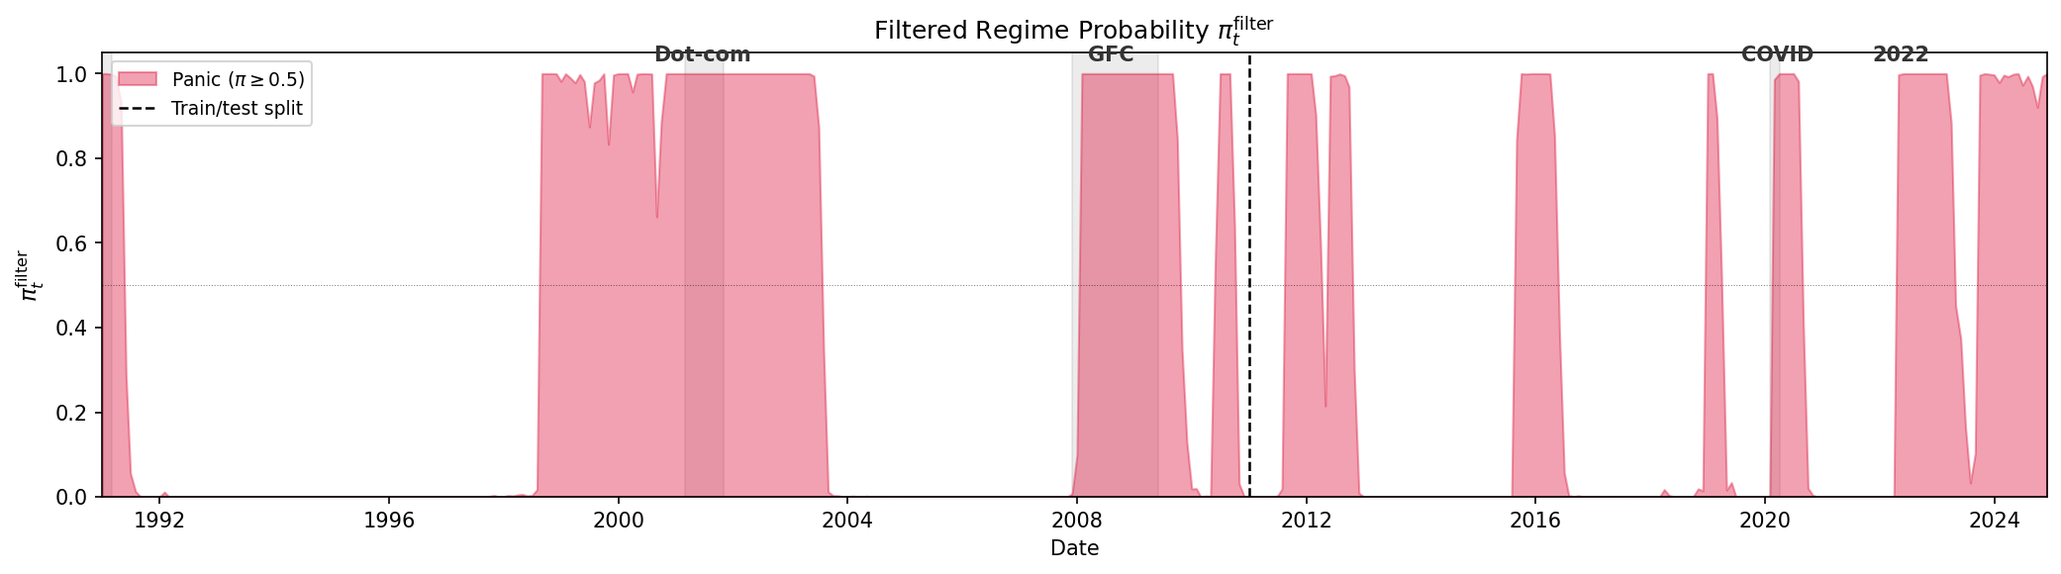
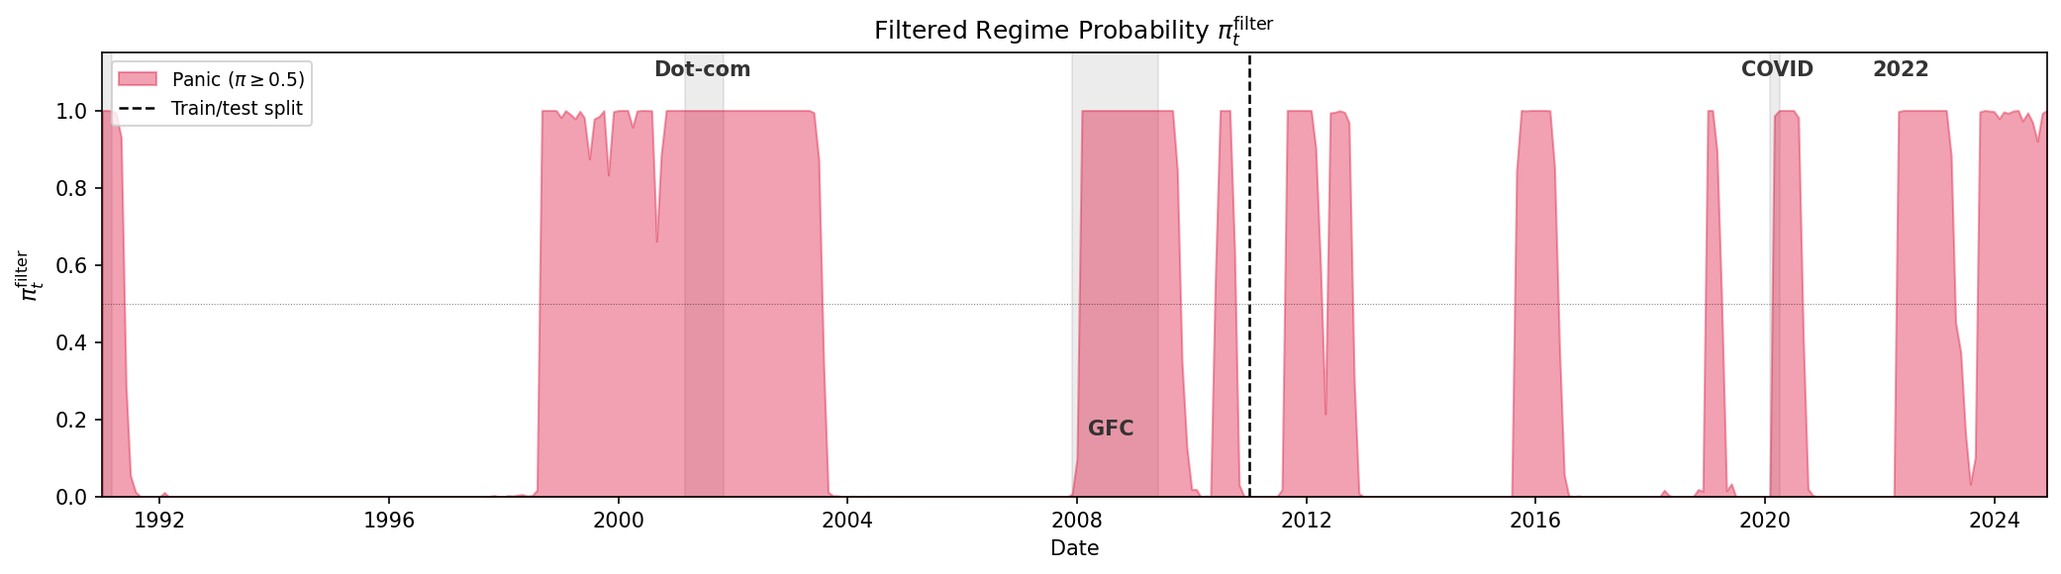
Clean up methodology (remove fundamentals refs, fix equations), reorganize data section, add predictive regime to future work

diff --git a/latex/methodology.tex b/latex/methodology.tex
@@ -3,7 +3,7 @@
 
 The two-stage empirical framework underlying the analysis is developed as follows. The first stage estimates market regimes using a Bayesian Hidden Markov Model (Section~\ref{sec:stage1}). A two-state HMM is fit to four macrofinancial stress indicators via Gibbs sampling, producing a monthly filtered probability $\pi_t^{\text{filter}}$ that quantifies how likely the market is to be in a panic state. Because this probability conditions only on information available at time $t$, it is a real-time signal with no look-ahead bias.
 
-The second stage uses this regime signal to guide cross-sectional stock selection (Section~\ref{sec:stage2}). Three portfolio construction methods of increasing complexity serve distinct analytical roles. The deterministic formula (Method~0) tests whether simply varying the momentum lookback horizon with market conditions adds value. The logistic regression (Method~1) tests whether a linear model can exploit the regime signal alongside momentum and fundamentals. XGBoost (Method~2) tests whether nonlinear interactions between the regime signal and other features matter. Comparing M1 and M2 is the key diagnostic: if the regime signal functions as a context variable rather than a direct return predictor, a linear model should be unable to use it, while a tree-based model should find it important.
+The second stage uses this regime signal to guide cross-sectional stock selection (Section~\ref{sec:stage2}). Three portfolio construction methods of increasing complexity serve distinct analytical roles. The deterministic formula (Method~0) tests whether simply varying the momentum lookback horizon with market conditions adds value. The logistic regression (Method~1) tests whether a linear model can exploit the regime signal alongside momentum. XGBoost (Method~2) tests whether nonlinear interactions between the regime signal and other features matter. Comparing M1 and M2 is the key diagnostic: if the regime signal functions as a context variable rather than a direct return predictor, a linear model should be unable to use it, while a tree-based model should find it important.
 
 \subsection{Stage 1: Regime Classification via Hidden Markov Model}\label{sec:stage1}
 
@@ -156,7 +156,7 @@ For example, if the forward filter assigns high probability to calm at time $t$ 
 
 The output of the full FFBS procedure is one draw from the posterior over state paths. Across Gibbs iterations, different paths are sampled, exploring the full posterior uncertainty.
 
-Importantly, the backward pass is used only during training (the Gibbs sampler on 1990--2010 data) to improve posterior parameter estimates. The trading signal $\pi_t^{\text{filter}}$ relies solely on the causal forward filter.
+Importantly, the backward pass is used only during training to improve posterior parameter estimates. The trading signal $\pi_t^{\text{filter}}$ relies solely on the causal forward filter.
 
 \paragraph{Step 2: Updating the emission parameters}
 
@@ -188,7 +188,7 @@ With all three blocks updated, the sampler returns to Step~1. After sufficient i
 
 \subsubsection{Implementation and Convergence}\label{sec:implementation}
 
-The Gibbs sampler is estimated on the training sample only (1990--2010). To reduce sensitivity to MCMC initialization, the full sampler is run independently with $N_s = 200$ different random seeds. Each chain is run for $M=2{,}000$ iterations with the initialization described above. The first $B=500$ iterations are discarded as burn-in, leaving $1{,}500$ posterior draws per seed.
+The Gibbs sampler is estimated on the training sample only. To reduce sensitivity to MCMC initialization, the full sampler is run independently with $N_s = 200$ different random seeds. Each chain is run for $M=2{,}000$ iterations with the initialization described above. The first $B=500$ iterations are discarded as burn-in, leaving $1{,}500$ posterior draws per seed.
 
 For each seed, posterior mean parameters $\bar{\boldsymbol{\mu}}_k$, $\bar{\boldsymbol{\Sigma}}_k$, and $\bar{\mathbf{P}}$ are computed by averaging over the post-burn-in draws. A causal forward filter is then applied to the full sample using these parameters to obtain a seed-specific filtered probability $\pi_t^{\text{filter},(s)}$. The final trading signal is the average across seeds:
 \begin{equation}
@@ -240,39 +240,34 @@ A value near $0$ indicates high confidence in calm, near $1$ indicates panic, an
 
 \subsection{Stage 2: Regime-Conditioned Portfolio Construction}\label{sec:stage2}
 
-The filtered regime probability $\pi_t^{\text{filter}}$ from Stage~1 provides a monthly measure of market stress, but on its own it does not select stocks. This stage translates the regime signal into cross-sectional portfolios. Three cross-sectional stock selection methods of increasing complexity are developed: a deterministic regime-adaptive momentum formula (Method~0), a logistic regression classifier (Method~1), and an XGBoost gradient-boosted tree regressor (Method~2). Each method combines $\pi_t^{\text{filter}}$ with momentum signals at multiple horizons to produce a monthly score for every stock, which is then used to rank stocks into a long-short portfolio: the top decile (using NYSE breakpoints) forms the long leg, the bottom decile forms the short leg, and both legs are value-weighted. A full description of the features used, including their construction and sources, is provided in Section~\ref{sec:data}.
+The filtered regime probability $\pi_t^{\text{filter}}$ from Stage~1 provides a monthly measure of market stress, but on its own it does not select stocks. This stage translates the regime signal into cross-sectional portfolios. Three cross-sectional stock selection methods of increasing complexity are developed: a deterministic regime-adaptive momentum formula (Method~0), a logistic regression classifier (Method~1), and an XGBoost gradient-boosted tree regressor (Method~2). Each method combines $\pi_t^{\text{filter}}$ with momentum signals at multiple horizons to produce a monthly score for every stock, which is then used to rank stocks into a long-short portfolio: the top decile (using NYSE breakpoints) forms the long leg, the bottom decile forms the short leg, and both legs are value-weighted. The stock-level inputs (momentum horizons and the regime signal) are described in Section~\ref{sec:data}.
 
-The deterministic formula serves as a transparent baseline that tests whether simply varying the momentum lookback horizon with market conditions adds value. The two machine learning methods go further by jointly learning how all features (momentum at multiple horizons, fundamentals, and the regime signal) interact to predict forward returns. Long-short construction is the standard in the momentum literature \citep{JegadeeshTitman1993, DanielMoskowitz2016, BarrosoSantaClara2015} because it isolates momentum's cross-sectional stock selection from market beta, providing a cleaner test of whether the strategy can distinguish future winners from losers. The results that follow (Section~\ref{sec:results}) not only compare the out-of-sample performance of the three portfolios but also use SHAP values and coefficient analysis to examine \emph{which} features drive the predictions and \emph{how} their importance shifts across calm and panic regimes. This feature-level analysis provides economic insight into the signals that distinguish regime-conditioned stock selection from standard momentum.
+The deterministic formula serves as a transparent baseline that tests whether simply varying the momentum lookback horizon with market conditions adds value. The two machine learning methods go further by jointly learning how momentum at multiple horizons and the regime signal interact to predict forward returns. Long-short construction is the standard in the momentum literature \citep{JegadeeshTitman1993, DanielMoskowitz2016, BarrosoSantaClara2015} because it isolates momentum's cross-sectional stock selection from market beta, providing a cleaner test of whether the strategy can distinguish future winners from losers. The results that follow (Section~\ref{sec:results}) not only compare the out-of-sample performance of the three portfolios but also use SHAP values and coefficient analysis to examine \emph{which} features drive the predictions and \emph{how} their importance shifts across calm and panic regimes. This feature-level analysis provides economic insight into the signals that distinguish regime-conditioned stock selection from standard momentum.
 
 \subsubsection{Cross-Sectional Stock Selection Methods}\label{sec:methods}
 
-All three methods are trained on the pre-2011 sample and evaluated out-of-sample on 2011--2025.
-
 \paragraph{Method 0: Deterministic Regime-Adaptive Formula}\label{sec:method0}
 
-The simplest approach exploits the economic intuition that the optimal momentum lookback horizon varies with market conditions. The lookback horizon is determined by:
-\begin{equation}
-    \ell_t = \text{clip}\!\left(\text{round}(12 - 11 \cdot \pi_t^{\text{filter}}), \; 1, \; 12\right),
-\end{equation}
-and each stock's score is simply its momentum return at the selected horizon:
-\begin{equation}
-    score_t^s = mom_{\ell_t, t}^s.
-\end{equation}
+The simplest approach exploits the economic intuition that the optimal momentum lookback horizon varies with market conditions. The lookback horizon and stock score are:
+\begin{align}
+    \ell_t &= \text{clip}\!\left(\text{round}(12 - 11 \cdot \pi_t^{\text{filter}}), \; 1, \; 12\right), \\
+    \text{score}_{t}^{\,s} &= \prod_{j=1}^{\ell_t}(1 + r_{t-j}^s) - 1.
+\end{align}
 Stocks are then ranked by this score; the top decile forms the long leg and the bottom decile the short leg, as described in Appendix~\ref{app:portfolio_construction}.
 
-When $\pi_t^{\text{filter}} \approx 0$ (calm), $\ell_t = 12$, recovering the standard 12-month momentum signal that captures continuation in trending markets. When $\pi_t^{\text{filter}} \approx 1$ (panic), $\ell_t = 1$, switching to 1-month reversal to exploit the tendency of oversold stocks to snap back after panic selling. At intermediate values, the lookback smoothly interpolates between these extremes.
+When $\pi_t^{\text{filter}} \approx 0$ (calm), $\ell_t = 12$, recovering the standard 12-month momentum signal that captures continuation in trending markets \citep{JegadeeshTitman1993}. When $\pi_t^{\text{filter}} \approx 1$ (panic), $\ell_t = 1$, switching to 1-month reversal to exploit the tendency of oversold stocks to snap back after panic selling \citep{GHM2023}. At intermediate values, the lookback smoothly interpolates between these extremes.
 
 \paragraph{Method 1: Logistic Regression}\label{sec:method1}
 
-A logistic regression classifier is trained to predict whether a stock's forward return exceeds the cross-sectional median in each month. Classification is chosen over direct return regression because monthly stock returns are extremely noisy, and predicting the binary outcome ``above or below median'' is a more stable learning target that still produces a useful ranking of stocks.\footnote{The logistic sigmoid function $\sigma(z) = 1/(1 + e^{-z})$ maps the linear combination $\boldsymbol{\beta}^\top \tilde{\mathbf{x}}$ from the real line to the interval $(0, 1)$, so the output can be interpreted as a probability.}
+A logistic regression classifier is trained to predict whether a stock's forward return exceeds the cross-sectional median in each month. Classification is chosen over direct return regression because monthly stock returns are extremely noisy, and predicting the binary outcome ``above or below median'' is a more stable learning target that still produces a useful ranking of stocks \citep[see][for a discussion of classification vs.\ regression targets in asset pricing]{Gu2020}.\footnote{The logistic sigmoid function $\sigma(z) = 1/(1 + e^{-z})$ maps the linear combination $\boldsymbol{\beta}^\top \tilde{\mathbf{x}}$ from the real line to the interval $(0, 1)$, so the output can be interpreted as a probability.}
 \begin{equation}
     P(y_t^s = 1 \mid \mathbf{x}_t^s) = \sigma(\boldsymbol{\beta}^\top \tilde{\mathbf{x}}_t^s),
 \end{equation}
-where $y_t^s = \mathds{1}(r_{t+1}^s > \text{median}_s\{r_{t+1}^s\})$ is a binary label indicating whether stock $s$ outperforms the cross-sectional median in the following month. The feature vector $\tilde{\mathbf{x}}_t^s$ is standardized using training-set means and standard deviations, with missing fundamental values imputed at the training-set median. The model is estimated by maximizing the $\ell_2$-regularized log-likelihood:
+where $y_t^s = \mathds{1}(r_{t+1}^s > \text{median}_s\{r_{t+1}^s\})$ is a binary label indicating whether stock $s$ outperforms the cross-sectional median in the following month. The feature vector $\tilde{\mathbf{x}}_t^s = (mom_{1,t}^s, \dots, mom_{12,t}^s, \pi_t^{\text{filter}})$ contains the 12 momentum lookbacks and the regime signal, standardized using training-set means and standard deviations. The model is estimated by maximizing the $\ell_2$-regularized log-likelihood:
 \begin{equation}
     \hat{\boldsymbol{\beta}} = \arg\max_{\boldsymbol{\beta}} \left[\sum_{i} \Big(y_i \log \sigma(\boldsymbol{\beta}^\top \tilde{\mathbf{x}}_i) + (1 - y_i) \log(1 - \sigma(\boldsymbol{\beta}^\top \tilde{\mathbf{x}}_i))\Big) - \frac{1}{2C} \|\boldsymbol{\beta}\|_2^2\right],
 \end{equation}
-with regularization strength $C = 1.0$ (the scikit-learn default). The $\ell_2$ penalty shrinks coefficients toward zero to guard against overfitting given the large number of correlated momentum features; the default value was retained because preliminary experiments showed that performance was insensitive to moderate changes in $C$. Once $\hat{\boldsymbol{\beta}}$ is estimated on the training sample, the stock score for any observation is obtained by plugging $\hat{\boldsymbol{\beta}}$ back into the prediction equation:
+with regularization strength $C = 1.0$. The $\ell_2$ penalty shrinks coefficients toward zero to guard against overfitting given the large number of correlated momentum features. Once $\hat{\boldsymbol{\beta}}$ is estimated on the training sample, the stock score for any observation is obtained by plugging $\hat{\boldsymbol{\beta}}$ back into the prediction equation:
 \begin{equation}
     score_t^s = \sigma(\hat{\boldsymbol{\beta}}^\top \tilde{\mathbf{x}}_t^s) = P(y_t^s = 1 \mid \mathbf{x}_t^s;\, \hat{\boldsymbol{\beta}}).
 \end{equation}
@@ -280,7 +275,7 @@ Stocks with higher predicted probability of beating the cross-sectional median r
 
 \paragraph{Method 2: XGBoost Regressor}\label{sec:method2}
 
-An XGBoost gradient-boosted tree regressor \citep{Chen2016} is trained to predict the forward monthly return directly. Unlike Method~1, regression rather than classification is used here because XGBoost's nonlinear tree structure is flexible enough to learn from noisy continuous returns, and predicting returns directly preserves magnitude information -- the model can distinguish a stock expected to gain 10\% from one expected to gain 2\%, whereas classification discards this signal. The feature vector for each stock-month observation comprises the 13 features described in Section~\ref{sec:cs_features}: the 12 momentum lookbacks ($mom_1, \dots, mom_{12}$) and the regime signal ($\pi_t^{\text{filter}}$). By including all horizons jointly, XGBoost can learn which momentum horizons matter most in each regime. For example, it may rely on long-horizon momentum when $\pi_t^{\text{filter}}$ is low but shift toward short-term reversal when $\pi_t^{\text{filter}}$ is high.
+An XGBoost gradient-boosted tree regressor \citep{Chen2016} is trained to predict the forward monthly return directly. Unlike Method~1, which classifies stocks as above or below the median, XGBoost predicts the forward return directly. This preserves magnitude information: a stock expected to gain 10\% ranks higher than one expected to gain 2\%, a distinction that binary classification discards. The feature vector for each stock-month observation comprises the 13 features described in Section~\ref{sec:cs_features}: the 12 momentum lookbacks ($mom_1, \dots, mom_{12}$) and the regime signal ($\pi_t^{\text{filter}}$). By including all horizons jointly, XGBoost can learn which momentum horizons matter most in each regime. For example, it may rely on long-horizon momentum when $\pi_t^{\text{filter}}$ is low but shift toward short-term reversal when $\pi_t^{\text{filter}}$ is high.
 
 XGBoost builds an additive ensemble of $M$ regression trees, where each successive tree fits the residuals of the current ensemble:
 \begin{equation}
@@ -288,7 +283,7 @@ XGBoost builds an additive ensemble of $M$ regression trees, where each successi
 \end{equation}
 where $h_m$ is the $m$-th decision tree and $\eta$ is the learning rate that shrinks each tree's contribution to prevent overfitting. Each tree $h_m$ is grown to minimize a regularized objective combining the squared-error loss on the current residuals with penalty terms on tree complexity (number of leaves and leaf weights). The predicted return $\hat{r}_{t+1}^s = F(\mathbf{x}_t^s)$ serves as the stock score. The model is trained with $M = 500$ trees, a learning rate of $\eta = 0.05$, maximum tree depth of 4, and row and column subsampling rates of 0.8. To reduce sensitivity to random initialization, an ensemble of 50 independent XGBoost models (each with a different random seed) is trained; their predictions are averaged before ranking stocks into portfolio deciles.
 
-Row and column subsampling introduce stochasticity into each boosting round, reducing variance and improving generalization. A maximum depth of 4 allows the model to capture pairwise and higher-order interactions. Critically, this means XGBoost can learn splits that condition on $\pi_t^{\text{filter}}$ and then branch on momentum horizons differently within each regime, without requiring explicit interaction terms. XGBoost also natively handles missing values in the fundamental features by learning optimal split directions for missing entries during training, eliminating the need for imputation.
+A maximum depth of 4 allows the model to capture pairwise and higher-order interactions. Critically, this means XGBoost can learn splits that condition on $\pi_t^{\text{filter}}$ and then branch on momentum horizons differently within each regime, without requiring explicit interaction terms.
 
 \paragraph{The Role of $\pi_t^{\text{filter}}$}\label{sec:pi_context}
 

diff --git a/latex/data_section.tex b/latex/data_section.tex
@@ -25,7 +25,7 @@ Market-level months & 252 & 167 & 419 \\
 
 \subsection{HMM Feature Selection}\label{sec:feature_selection}
 
-The regime signal's ability to capture the rotation in momentum's cross-sectional structure depends critically on which stress indicators the HMM observes. The selection problem has two constraints. First, market drawdown (DD) must be included: it is the most economically direct measure of the mechanism identified by \citet{DanielMoskowitz2016} -- momentum crashes follow market declines -- and consistently emerges as the dominant regime-identifying feature. Second, the number of features is capped at four. With 241 training months split roughly 150/90 between calm and panic regimes, each regime has sufficient observations to estimate a 4-dimensional mean vector and covariance matrix (10 free covariance parameters per state). Increasing beyond four features risks estimation instability.
+The regime signal's ability to capture the shift in momentum's cross-sectional structure depends critically on which stress indicators the HMM observes. The selection problem has two constraints. First, market drawdown (DD) must be included: it is the most economically direct measure of the mechanism identified by \citet{DanielMoskowitz2016} -- momentum crashes follow market declines -- and consistently emerges as the dominant regime-identifying feature. Second, the number of features is capped at four. With 241 training months split roughly 150/90 between calm and panic regimes, each regime has sufficient observations to estimate a 4-dimensional mean vector and covariance matrix (10 free covariance parameters per state). Increasing beyond four features risks estimation instability.
 
 \paragraph{Candidate pool}
 Nine monthly macrofinancial indicators, all available from 1990 onward, are considered:
@@ -36,13 +36,13 @@ Nine monthly macrofinancial indicators, all available from 1990 onward, are cons
 All candidates are observable in real time at the end of each month and standardised to $z$-scores using training-period statistics.
 
 \paragraph{How we selected}
-The selection proceeds through three passes of increasing rigour. In the first pass (\emph{quality screen}), each of the 93 DD-inclusive combinations is estimated with a single Gibbs sampler seed, and combinations are eliminated if the HMM fails basic sanity checks: the two states must separate meaningfully, and the model must correctly classify known crises (the dot-com bust, the GFC, and COVID) as panic while keeping non-crisis periods calm.\footnote{Specific thresholds: ESS $> 50$, regime separation significant for at least $\min(2,D)$ features, average $\pi_t^{\text{filter}} > 0.5$ during GFC and COVID, $< 0.4$ during 2003--2006 and 2013--2019, $> 0.3$ during the dot-com crash.}
+The selection proceeds through three passes of increasing rigour. In the first pass (\emph{quality screen}), all DD-inclusive combinations of up to four features are considered. With 8 remaining candidates, this gives $\binom{8}{0} + \binom{8}{1} + \binom{8}{2} + \binom{8}{3} = 1 + 8 + 28 + 56 = 93$ combinations (DD alone, DD paired with one other, DD with two others, DD with three others). Each is estimated with a single Gibbs sampler seed, and combinations are eliminated if the HMM fails basic sanity checks: the two states must separate meaningfully, and the model must correctly classify known crises (the dot-com bust, the GFC, and COVID) as panic while keeping non-crisis periods calm.\footnote{Specific thresholds: ESS $> 50$, regime separation significant for at least $\min(2,D)$ features, average $\pi_t^{\text{filter}} > 0.5$ during GFC and COVID, $< 0.4$ during 2003--2006 and 2013--2019, $> 0.3$ during the dot-com crash.}
 
 In the second pass (\emph{portfolio ranking}), surviving combinations are evaluated through the full cross-sectional pipeline: HMM to XGBoost to long-short portfolio. This answers the question that matters most -- does a better regime signal translate into better stock selection? Combinations are ranked by out-of-sample Sharpe ratio. The top 10 advance.
 
 In the third pass (\emph{stability validation}), the finalists are tested for robustness across random seed partitions. A combination that achieves a high Sharpe on one lucky seed combination but collapses on another is unreliable. We run 20 independent experiments with different seed draws and classify combinations as stable ($\sigma < 0.10$), moderate ($0.10 \leq \sigma < 0.15$), or unstable ($\sigma \geq 0.15$).
 
-\paragraph{What we selected and why}
+\paragraph{Selected features}
 The four-feature combination DD+DISP+REL\_N+CS is selected as the most stable. With the production configuration (200 HMM seeds), it achieves a long-short Sharpe of 1.08 ($\sigma = 0.08$ across independent seed partitions; Section~\ref{sec:results}).
 
 \input{tables/table_feature_selection}
@@ -51,20 +51,7 @@ Table~\ref{tab:hmm_feature_ablation} confirms the individual contribution of eac
 
 \input{tables/table_hmm_feature_ablation}
 
-The convergence diagnostics described in Section~\ref{sec:convergence} confirm that the Gibbs sampler with the selected features is well-behaved. All posterior parameters exceed an ESS of 100, indicating efficient mixing, and the Gelman--Rubin $\hat{R}$ statistic is below 1.01 for every parameter across five independent chains (Appendix~\ref{app:gelman_rubin}).
-
-Figure~\ref{fig:regime_probabilities} plots the resulting filtered regime probability over the full sample. The signal correctly identifies all major stress episodes while remaining near zero during calm expansions.
-
-\begin{figure}[H]
-    \centering
-    \includegraphics[width=\textwidth]{regime_probabilities.png}
-    \caption{Filtered regime probability $\pi_t^{\text{filter}}$ (1990--2025). The dashed vertical line marks the train/test split (January 2011). Shaded regions indicate months where $\pi_t^{\text{filter}} \geq 0.5$ (panic classification).}
-    \label{fig:regime_probabilities}
-\end{figure}
-
-Table~\ref{tab:hmm_separation} confirms that the two regimes are meaningfully distinct: all four features exhibit statistically significant separation between calm and panic, with 95\% posterior credible intervals excluding zero. The largest separations are observed for DD and REL\_N, consistent with their dominant roles in the ablation analysis (Section~\ref{sec:ablation_results}).
-
-\input{tables/table_hmm_separation}
+The convergence diagnostics described in Section~\ref{sec:convergence} confirm that the Gibbs sampler with the selected features has converged. All posterior parameters exceed an ESS of 100, meaning the post-burn-in draws contain at least 100 effectively independent samples per parameter. The Gelman--Rubin $\hat{R}$ statistic is below 1.01 for every parameter across five independent chains (Appendix~\ref{app:gelman_rubin}), indicating that chains started from different initializations have converged to the same posterior distribution.
 
 Each feature captures a distinct dimension of market stress:
 \begin{enumerate}
@@ -78,7 +65,7 @@ Each feature captures a distinct dimension of market stress:
     \begin{equation}
         DISP_t = \log\!\left(\text{std}_s(r_{s,t})\right).
     \end{equation}
-    DISP captures cross-sectional \emph{disagreement} among stocks. During stress, consensus breaks down and dispersion spikes, signalling changes in the correlation structure that affect momentum profits.
+    DISP captures cross-sectional \emph{disagreement} among stocks. During stress, individual stocks move in different directions rather than together, causing dispersion to spike.
 
     \item \textbf{REL\_N (Relative Market Participation):} The log ratio of the number of actively traded stocks to its trailing 12-month average:
     \begin{equation}
@@ -93,7 +80,7 @@ Each feature captures a distinct dimension of market stress:
     The credit spread provides an independent signal from the corporate bond market, helping the HMM distinguish genuine stress episodes from equity-specific turbulence.
 \end{enumerate}
 
-All four features are winsorised at the 1st and 99th percentiles using training-sample bounds and standardised to zero mean and unit variance.
+All four features are winsorised at the 1st and 99th percentiles (i.e., values below the 1st or above the 99th percentile are capped at those bounds to limit the influence of outliers) using training-sample statistics, and standardised to zero mean and unit variance.
 
 \begin{figure}[H]
     \centering
@@ -102,6 +89,17 @@ All four features are winsorised at the 1st and 99th percentiles using training-
     \label{fig:features_hmm}
 \end{figure}
 
+
+Table~\ref{tab:hmm_separation} and Figure~\ref{fig:regime_probabilities} summarize the HMM output. All four features exhibit statistically significant separation between calm and panic regimes (95\% credible intervals excluding zero), and the resulting signal correctly identifies all major stress episodes while remaining near zero during calm expansions.
+
+\input{tables/table_hmm_separation}
+
+\begin{figure}[H]
+    \centering
+    \includegraphics[width=\textwidth]{regime_probabilities.png}
+    \caption{Filtered regime probability $\pi_t^{\text{filter}}$ (1990--2025). The dashed vertical line marks the train/test split (January 2011). Shaded regions indicate months where $\pi_t^{\text{filter}} \geq 0.5$ (panic classification).}
+    \label{fig:regime_probabilities}
+\end{figure}
 
 \subsection{Cross-Sectional Features}\label{sec:cs_features}
 

diff --git a/latex/literature_review.tex b/latex/literature_review.tex
@@ -36,7 +36,7 @@ In most prior work, the estimated regime is used to make binary portfolio decisi
 
 The most directly related work is \citet{GHM2023}, who condition cross-sectional momentum on the market state. They classify each month into one of four market cycles (Bull, Correction, Bear, Rebound) based on the trailing 1-month and rolling 12-month market returns. In each cycle, a different blending parameter $a$ determines the weight given to 1-month versus 12-month momentum for ranking stocks: the composite signal is $a \cdot mom_1 + (1-a) \cdot mom_{12}$, where $a=0$ corresponds to pure 12-month momentum and $a=1$ to pure 1-month momentum. Their dynamic (DYN) strategy grid-searches the optimal blending parameters for each non-Bull state on the training sample.
 
-This thesis extends \citet{GHM2023} in three directions. First, the regime classification uses a probabilistic model (the HMM) with real-time stress indicators rather than a deterministic rule based on trailing market returns. The HMM produces a continuous panic probability rather than a discrete four-state classification, allowing for smoother portfolio transitions. Second, the cross-sectional models use the full momentum term structure (12 lookback horizons) and fundamental characteristics, rather than blending only two momentum signals. Third, the use of machine learning models (logistic regression and XGBoost) allows the data to determine how the regime signal interacts with the other features, rather than imposing a parametric blending rule.
+This thesis extends \citet{GHM2023} in three directions. First, the regime classification uses a probabilistic model (the HMM) with real-time stress indicators rather than a deterministic rule based on trailing market returns. The HMM produces a continuous panic probability rather than a discrete four-state classification, allowing for smoother portfolio transitions. Second, the cross-sectional models use the full momentum term structure (12 lookback horizons) rather than blending only two momentum signals. Third, the use of machine learning models (logistic regression and XGBoost) allows the data to determine how the regime signal interacts with the other features, rather than imposing a parametric blending rule.
 
 In the empirical analysis (Section~\ref{sec:results}), all four \citet{GHM2023} strategies are implemented as benchmarks using the same long-short construction and transaction costs. In long-short construction, all GHM variants collapse (Sharpe ratios near zero), because their deterministic blending of two momentum horizons cannot adapt the short leg to changing regimes. Only the XGBoost model (M2), which learns nonlinear interactions between the regime signal and all 12 momentum horizons, survives long-short construction with a Sharpe ratio of 1.08.
 

diff --git a/latex/conclusion.tex b/latex/conclusion.tex
@@ -19,6 +19,9 @@ The fixed training split (1990--2010) ensures strict out-of-sample discipline bu
 
 Several directions could extend this framework.
 
+\paragraph{Predictive regime signal}
+The current regime signal $\pi_t^{\text{filter}}$ estimates the probability that the market is in panic \emph{now}. A natural extension is to predict the regime one step ahead: $P(s_{t+1} = 1 \mid \mathbf{z}_{1:t})$, which can be obtained directly from the transition matrix as $\sum_k \pi_t^{\text{filter}}(k) \cdot P_{k,1}$. A predictive signal would allow the portfolio to reposition \emph{before} a regime shift rather than reacting to it, potentially reducing turnover and improving timing around transition months.
+
 \paragraph{Adaptive regime estimation}
 The current HMM is trained on 1990--2010 data and its parameters are held fixed during the test period. This assumes that the statistical properties of calm and panic regimes remain stationary over time. If the market undergoes structural change, for instance a permanent increase in baseline volatility due to algorithmic trading, higher-frequency information flow, or shifting monetary policy regimes, the trained thresholds may become miscalibrated. Concretely, features that were one standard deviation above the training mean may become the new normal, causing the model to classify structurally calm periods as panic. This concern is not hypothetical: the sustained elevation of $\pi_t^{\text{filter}}$ in the most recent years of the sample may partly reflect such drift rather than genuine prolonged stress. Rolling or expanding-window re-estimation of the HMM, or an online Bayesian updating scheme that allows the emission parameters to evolve over time, would address this limitation and likely improve the reliability of the regime signal in extended out-of-sample periods.
 

diff --git a/archive/scripts/regenerate_thesis_plots.py b/archive/scripts/regenerate_thesis_plots.py
@@ -59,11 +59,12 @@ def shade_nber(ax):
 
 # ── Crisis labels for the regime plot ─────────────────────────────────────────
 
+# (start, end, label, y_position, va_alignment)
 crisis_labels = [
-    ('2000-03-01', '2002-10-01', 'Dot-com'),
-    ('2007-10-01', '2009-06-01', 'GFC'),
-    ('2020-02-01', '2020-05-01', 'COVID'),
-    ('2022-01-01', '2022-10-01', '2022'),
+    ('2000-03-01', '2002-10-01', 'Dot-com', 1.08, 'bottom'),
+    ('2007-10-01', '2009-06-01', 'GFC',     0.20, 'top'),
+    ('2020-02-01', '2020-05-01', 'COVID',   1.08, 'bottom'),
+    ('2022-01-01', '2022-10-01', '2022',    1.08, 'bottom'),
 ]
 
 # ── Figure 1: regime_probabilities.png (single panel) ───────────────────────
@@ -77,15 +78,15 @@ ax.axvline(pd.Timestamp('2011-01-01'), color='black', linewidth=1.2,
 ax.axhline(0.5, color='black', linewidth=0.5, linestyle=':', alpha=0.5)
 ax.set_ylabel(r'$\pi_t^{\mathrm{filter}}$', fontsize=11)
 ax.set_xlabel('Date', fontsize=10)
-ax.set_ylim(0, 1.05)
+ax.set_ylim(0, 1.15)
 ax.set_xlim(dates.min(), dates.max())
 shade_nber(ax)
 
-# Add crisis labels centered above the shaded regions
-for start, end, lbl in crisis_labels:
+# Add crisis labels
+for start, end, lbl, y_pos, va in crisis_labels:
     mid = pd.Timestamp(start) + (pd.Timestamp(end) - pd.Timestamp(start)) / 2
-    ax.annotate(lbl, xy=(mid, 1.02), fontsize=10, fontweight='bold',
-                ha='center', va='bottom', color='#333333',
+    ax.annotate(lbl, xy=(mid, y_pos), fontsize=10, fontweight='bold',
+                ha='center', va=va, color='#333333',
                 annotation_clip=False)
 
 ax.legend(fontsize=9, loc='upper left')

diff --git a/scripts/hmm_feature_selection.py b/scripts/hmm_feature_selection.py
@@ -81,7 +81,7 @@ FEATURE_POOL = ['DD_z', 'VOL_z', 'DISP_z', 'REL_N_z', 'CS_z', 'LVIX_z',
 REQUIRED_FEATURE = 'DD_z'
 
 # Feature counts to test
-FEATURE_COUNTS = [1, 2, 3]  # DD alone, DD+1, DD+2 (4-feature results already available)
+FEATURE_COUNTS = [1, 2, 3, 4]  # DD alone, DD+1, DD+2, DD+3
 
 # Seed counts increase with each pass
 PASS1_HMM_SEEDS = [42]                                          # 1 seed (fast screening)
